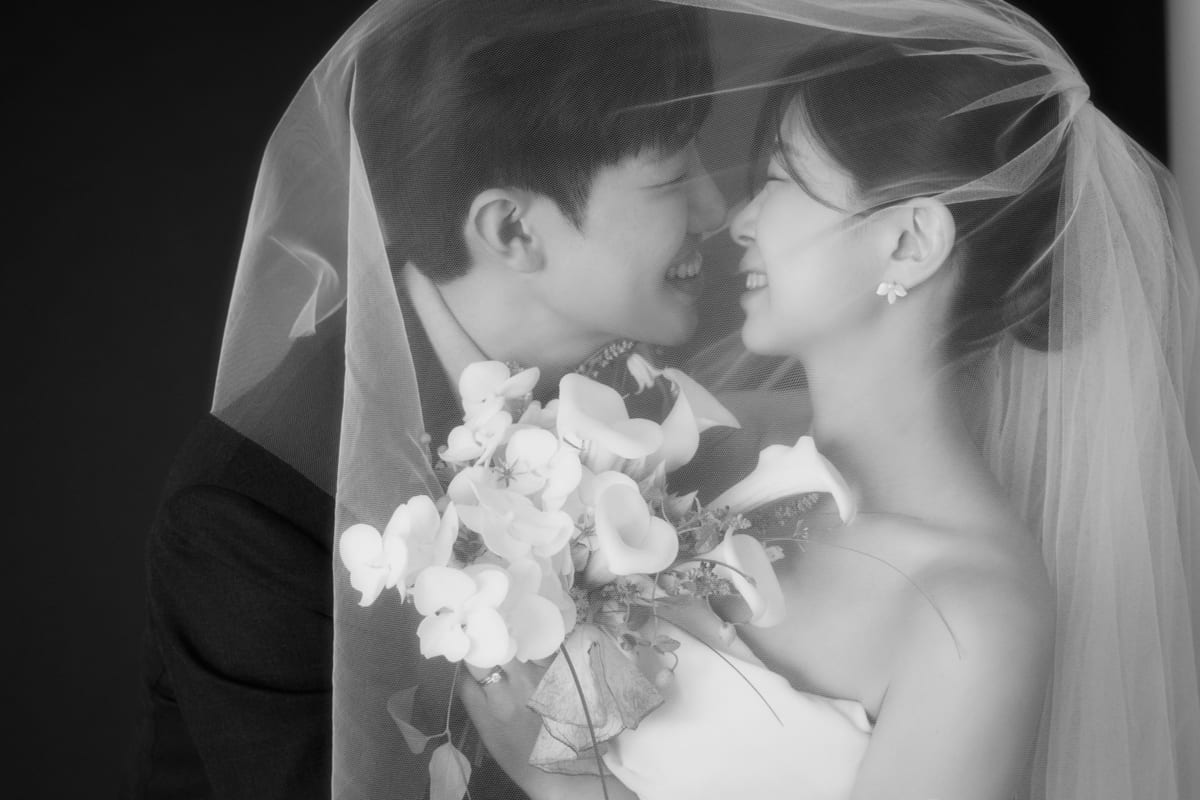
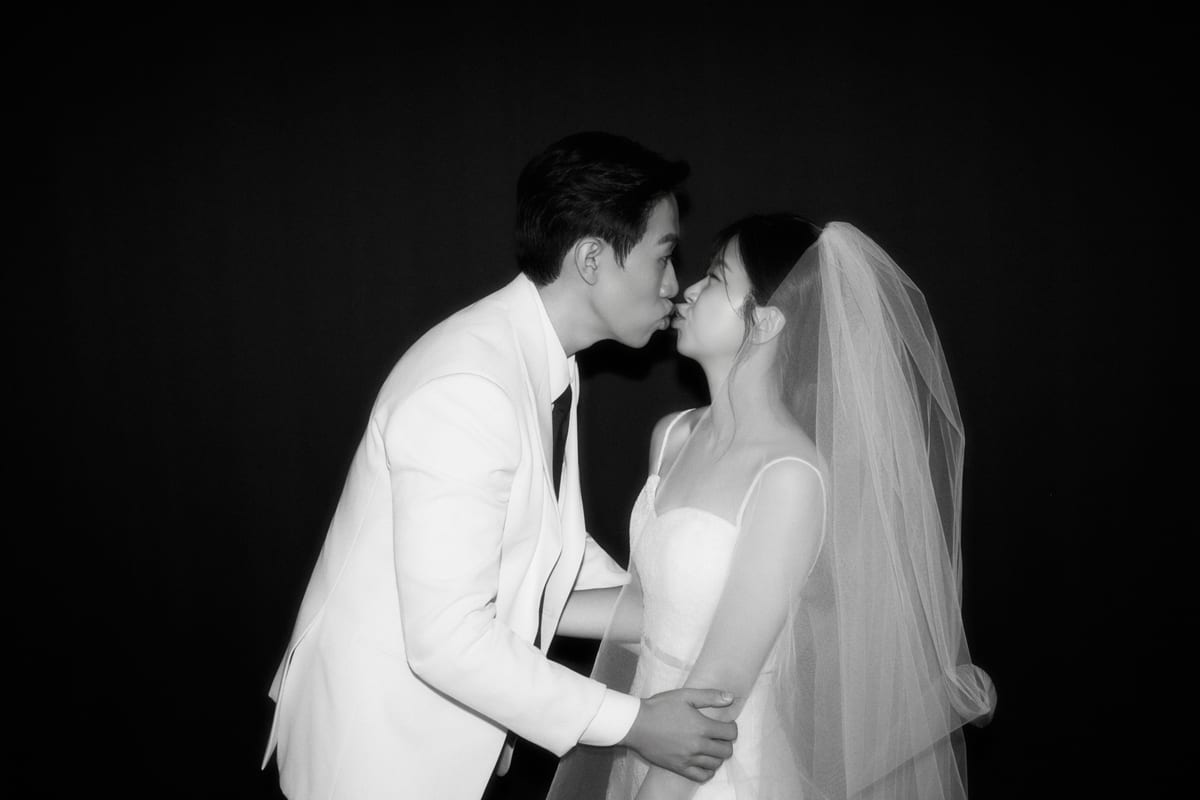
Replace hero photo and adjust HeroPassFlip crop framing
- Swap hero-d04f3908 assets for hero-6a41fb02 across all responsive
  widths, and update the manifest dimensions/placeholder to match
- Widen the hero flip box aspect ratio from 3:2 to 7:5 and shift
  cropping to anchor on the right/bottom so the subject stays centered
  when overflow is pushed into the background

diff --git a/src/components/HeroPassFlip/HeroPassFlip.css b/src/components/HeroPassFlip/HeroPassFlip.css
@@ -3,17 +3,18 @@
 .hero-flip {
   position: relative;
   width: 100%;
-  /* 히어로 사진(3:2) 이 위아래 잘림 없이 통째로 들어가도록 상자를 사진 비율에 맞춘다.
+  /* 히어로 사진(3:2) 보다 살짝 세로로 긴 상자(7:5). 위아래는 잘리지 않고
+     좌우만 약 7% 넘치는데, 이 넘침을 사진 왼쪽(빈 배경)으로 몰아 인물을 가운데에 둔다.
      aspect-ratio 를 모르는 구형 브라우저는 예전 고정 높이(256px)로 떨어진다. */
   height: 256px;
   perspective: 1400px;
   background: transparent;
 }
 
-@supports (aspect-ratio: 3 / 2) {
+@supports (aspect-ratio: 7 / 5) {
   .hero-flip {
     height: auto;
-    aspect-ratio: 3 / 2;
+    aspect-ratio: 7 / 5;
   }
 }
 
@@ -46,8 +47,11 @@
   width: 100%;
   height: 100%;
   object-fit: cover;
-  /* 상자가 사진 비율과 같아 보통은 잘리지 않는다. 소수점 차이로 조금 잘릴 때도 위쪽(머리)은 지킨다 */
-  object-position: center top;
+  /* 오른쪽 끝에 맞춰 왼쪽만 잘리게 한다 */
+  object-position: right top;
+  /* 오른쪽 아래 모서리를 고정한 채 6% 키워, 위쪽(빈 배경)이 조금 더 잘리게 한다 */
+  transform: scale(1.06);
+  transform-origin: right bottom;
 }
 
 /* 면 전체가 누를 수 있는 영역 */
